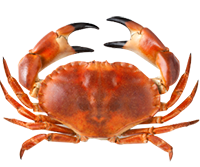
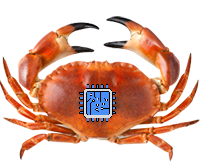
доработали колизию, исправили некоторые недочёты, изменили спрайты, сделали здоровье видимым

Changed region(s): [[0.39, 0.479, 0.6, 0.7485]]

diff --git a/game.py b/game.py
@@ -1,6 +1,7 @@
 import pygame
 import sys
 import random
+import json
 # import time
 
 clock = pygame.time.Clock()
@@ -14,7 +15,9 @@ pygame.display.set_caption('RAKBATTLESIMULATOR9999')
 
 WHITE = (255, 255, 255)
 BLACK = (0, 0, 0)
-background = ''
+background = pygame.image.load('images/ФОН.jpg').convert()
+background = pygame.transform.scale(background, (W, H))
+title = pygame.image.load('images/НАДПИСЬ RBs.png').convert_alpha()
 
 hopping_size = 10
 step_hopping_size = -5
@@ -26,7 +29,8 @@ hints = ['also try Zametki', 'also try SimpleDraw', 'some cheats: uuddLrLra1a2',
          'play PowerPoint', 'Ты сделал все уроки?', 'also try Яндекс Лицей', 'RAK', 'CANCER', 'Jq, yt nf hfcrkflrf',
          'MOM?', 'WE NEED 100$', 'Я сдам физику, честно', 'y = kx + b', 'Saratow2077', 'Roll D20', '3,14',
          'This sentence is a lie', 'Trust us', 'Wellcome to the underground', 'Hello World', 'Are you sure?', '(*)_(*)',
-         'also try PyCharm', 'AAAAAAAAA', 'Plant B', 'bye', 'cake is a lie', 'spaceeeee...', 'also try Alt + f4']
+         'also try PyCharm', 'AAAAAAAAA', 'Plant B', 'bye', 'cake is a lie', 'spaceeeee...', 'also try Alt + f4',
+         'power of 3 is Lr shot']
 
 hint = random.choice(hints)
 cur_select = select[0]
@@ -45,11 +49,12 @@ class MainRak(pygame.sprite.Sprite):
     def __init__(self):
         pygame.sprite.Sprite.__init__(self)
         self.image = pygame.image.load("images/просто рак.png").convert_alpha()
-        scale = pygame.transform.scale(self.image, (150, 150))
-        self.image = scale
+        self.image = pygame.transform.scale(self.image, (150, 150))
         self.original_image = self.image
         self.rect = self.image.get_rect()
+        self.mask = pygame.mask.from_surface(self.image)
         self.speed = 3
+        self.maxhp = 100
         self.hp = 100
         self.scale = 50
         self.up = pygame.K_w
@@ -60,7 +65,9 @@ class MainRak(pygame.sprite.Sprite):
         self.abikukles = pygame.K_e
         self.ulpotato = pygame.K_q
         self.reverse = False
-        self.kd = pygame.time.get_ticks()
+        self.kd = pygame.time.get_ticks() + 500
+        self.gif = pygame.time.get_ticks()
+        self.cgif = 0
 
     def update(self):
         global infinity_count
@@ -90,28 +97,24 @@ class MainRak(pygame.sprite.Sprite):
         if self.rect.x > 675:
             self.image = pygame.transform.flip(self.original_image, True, False)
             self.reverse = True
+            self.mask = pygame.mask.from_surface(self.image)
         else:
             self.image = self.original_image
             self.reverse = False
+            self.mask = pygame.mask.from_surface(self.image)
 
-        if cur_select_game != select_type_games[0] and keys[self.shot] and self.kd + 500 < pygame.time.get_ticks():
-            self.kd = pygame.time.get_ticks()
+        if cur_select_game != select_type_games[0] and keys[self.shot] and self.kd < pygame.time.get_ticks():
+            self.kd = pygame.time.get_ticks() + 500
             self.shoot()
 
-        bullets_hits = pygame.sprite.groupcollide(all_bullets, all_enemies, True, False)
-        rak_hits = pygame.sprite.spritecollide(self, all_enemies, False)
-        for bullets, enemys in bullets_hits.items():
-            for e in enemys:
-                e.hp -= 5
-                if e.hp <= 0:
-                    infinity_count += e.cost
-                    print(infinity_count)
-                    e.kill()
+        # bullets_hits = pygame.sprite.groupcollide(all_bullets, all_enemies, True, False)
+        # bullets_hits_mask = pygame.sprite.collide_mask()
 
-        for e in rak_hits:
-            self.hp -= e.hp
-            print(self.hp)
-            e.kill()
+        for e in all_enemies:
+            if pygame.sprite.collide_mask(self, e):
+                self.hp -= e.hp
+                print('hp:', self.hp)
+                e.kill()
 
     def starting_game(self):
         self.rect.x = 650
@@ -139,14 +142,25 @@ class Bullet(pygame.sprite.Sprite):
             self.speedx = 15
         self.rect = self.image.get_rect(center=(x, y))
         self.pseudo_rect = self.image.get_rect()
+        self.mask = pygame.mask.from_surface(self.image)
         self.damage = 5
         self.vy = vy
 
     def update(self):
+        global infinity_count
         self.rect.x += self.speedx
         self.rect.y += self.vy
         if self.rect.left > W or self.rect.right < 0 or self.rect.bottom < 0 or self.rect.top > H:
             self.kill()
+
+        for e in all_enemies:
+            if pygame.sprite.collide_mask(self, e):
+                e.hp -= 5
+                self.kill()
+                if e.hp <= 0:
+                    infinity_count += e.cost
+                    print(infinity_count)
+                    e.kill()
 
 
 class MainEnemy(pygame.sprite.Sprite):
@@ -156,13 +170,14 @@ class MainEnemy(pygame.sprite.Sprite):
         # self.rev = 0
         self.cost = 1
         self.image = pygame.image.load("images/рыба(она просто есть).png").convert_alpha()
-        scale = pygame.transform.scale(self.image, (150, 150))
+        scale = pygame.transform.scale(self.image, (200, 150))
         self.image = scale
         if self.rev == 1:
             self.image = pygame.transform.flip(self.image, True, False)
         self.rect = self.image.get_rect()
         self.rect.x = (W + 650) * self.rev - 400
         self.rect.y = random.randint(0, H - 150)
+        self.mask = pygame.mask.from_surface(self.image)
         self.hp = 10
         self.cur_hp = self.hp
         self.speed = 2
@@ -189,6 +204,7 @@ class Giant(MainEnemy):
         self.rect = self.image.get_rect()
         self.rect.x = (W + 950) * self.rev - 850
         self.rect.y = 5
+        self.mask = pygame.mask.from_surface(self.image)
         self.hp = 50
         self.speed = 1
 
@@ -205,16 +221,21 @@ class Giant(MainEnemy):
 def infinity_game():
     global wave, old_wave, infinity_count
     screen.fill(WHITE)
+    screen.blit(background, (0, 0))
+
     screen.blit(rak.image, rak.rect)
     all_enemies.draw(screen)
     all_bullets.draw(screen)
     # я понял что рект это ТОЧНО верхний левый угол картинки
+    pygame.draw.rect(screen, BLACK, (50, H - 80, 320, 70))
+    pygame.draw.rect(screen, (200, 0, 0), (60, H - 70, 300, 50))
+    pygame.draw.rect(screen, (0, 200, 40), (60, H - 70, 300 * rak.hp / rak.maxhp, 50))
     pygame.display.flip()
 
     timer = pygame.time.get_ticks()
     stop = random.randint(0, 500)
     r = random.randint(0, 100)
-    if r < 40:
+    if r < 5:
         a = Giant()
     else:
         a = MainEnemy()
@@ -238,18 +259,21 @@ def show_menu():
     global hopping_size, step_hopping_size
     font2 = pygame.font.Font(None, hopping_size)
     screen.fill(WHITE)
-    title_text = font1.render('RAKBATTLESIMULATOR', True, BLACK)
+    screen.blit(background, (0, 0))
+
+    # title_text = font1.render('RAKBATTLESIMULATOR', True, BLACK)
     play_text = font1.render('Играть', True, BLACK)
     store_text = font1.render('Настройки', True, BLACK)
     quit_text = font1.render('Выход', True, BLACK)
-    hopping_text = font2.render(hint, True, (0, 0, 255))
+    hopping_text = font2.render(hint, True, (255, 0, 0))
     rotated_text = pygame.transform.rotate(hopping_text, 20)
     selected = pygame.draw.rect(screen, (255, 0, 0), (600, 250 + 100 * move_selected, 10, 50))
-    screen.blit(title_text, (440, 50))
+    # screen.blit(title_text, (440, 50))
+    screen.blit(title, (400, 40))
     screen.blit(play_text, (650, 250))
     screen.blit(store_text, (650, 350))
     screen.blit(quit_text, (650, 450))
-    screen.blit(rotated_text, (1000 - hopping_size * len(hint) * 0.01, 90 - hopping_size * len(hint) * 0.05))
+    screen.blit(rotated_text, (1000 - hopping_size * len(hint) * 0.01, 140 - hopping_size * len(hint) * 0.05))
     hopping_size = int((step_hopping_size ** 2) // 1) + 30
     step_hopping_size += 0.07
     if step_hopping_size // 1 >= 5:
@@ -259,6 +283,7 @@ def show_menu():
 
 def select_game():
     screen.fill(WHITE)
+    screen.blit(background, (0, 0))
     title_text = font1.render('Режимы игры', True, BLACK)
     suj_text = font1.render('Сюжетный', True, BLACK)
     infi_text = font1.render('БЕСКОНЕЧНЫЙ!', True, BLACK)
@@ -295,10 +320,21 @@ def game_over(score):
 
 def kombo_check():
     if last_moves == cheat_code:
+        rak.hp += 10000
+        for i in range(10):
+            rak.shoot(vy=5)
+            rak.shoot(vy=4)
+            rak.shoot(vy=3)
+            rak.shoot(vy=2)
+            rak.shoot(vy=1)
+            rak.shoot(vy=-1)
+            rak.shoot(vy=-2)
+            rak.shoot(vy=-3)
+            rak.shoot(vy=-4)
+            rak.shoot(vy=-5)
         print('YOU CHEATER!!!')
-    if last_moves[-3:] == triple_shot:
+    if last_moves[-3:] == triple_shot and rak.kd + 200 < pygame.time.get_ticks():
         rak.shoot(vy=4)
-        rak.shoot(vy=0)
         rak.shoot(vy=-4)
 
 
@@ -317,9 +353,9 @@ while game:
             if cur_select_game == '':
                 if cur_select == select[0]:
                     if event.key == pygame.K_DOWN:
-                        move_selected = (move_selected + 1) % (len(select) - 1)
+                        move_selected = (move_selected + 1) % (len(select) - 2)
                     if event.key == pygame.K_UP:
-                        move_selected = (move_selected - 1) % (len(select) - 1)
+                        move_selected = (move_selected - 1) % (len(select) - 2)
                     if event.key == pygame.K_SPACE:
                         cur_select = select[move_selected + 1]
                         print(cur_select)
@@ -333,6 +369,8 @@ while game:
                         cur_select_game = select_type_games[move_selected_game + 1]
                         print(cur_select_game)
                         print(cur_select_game == select_type_games[2])
+                        infinity_count = 0
+                        wave = 10
                         rak.starting_game()
 
             if event.key == pygame.K_ESCAPE:
